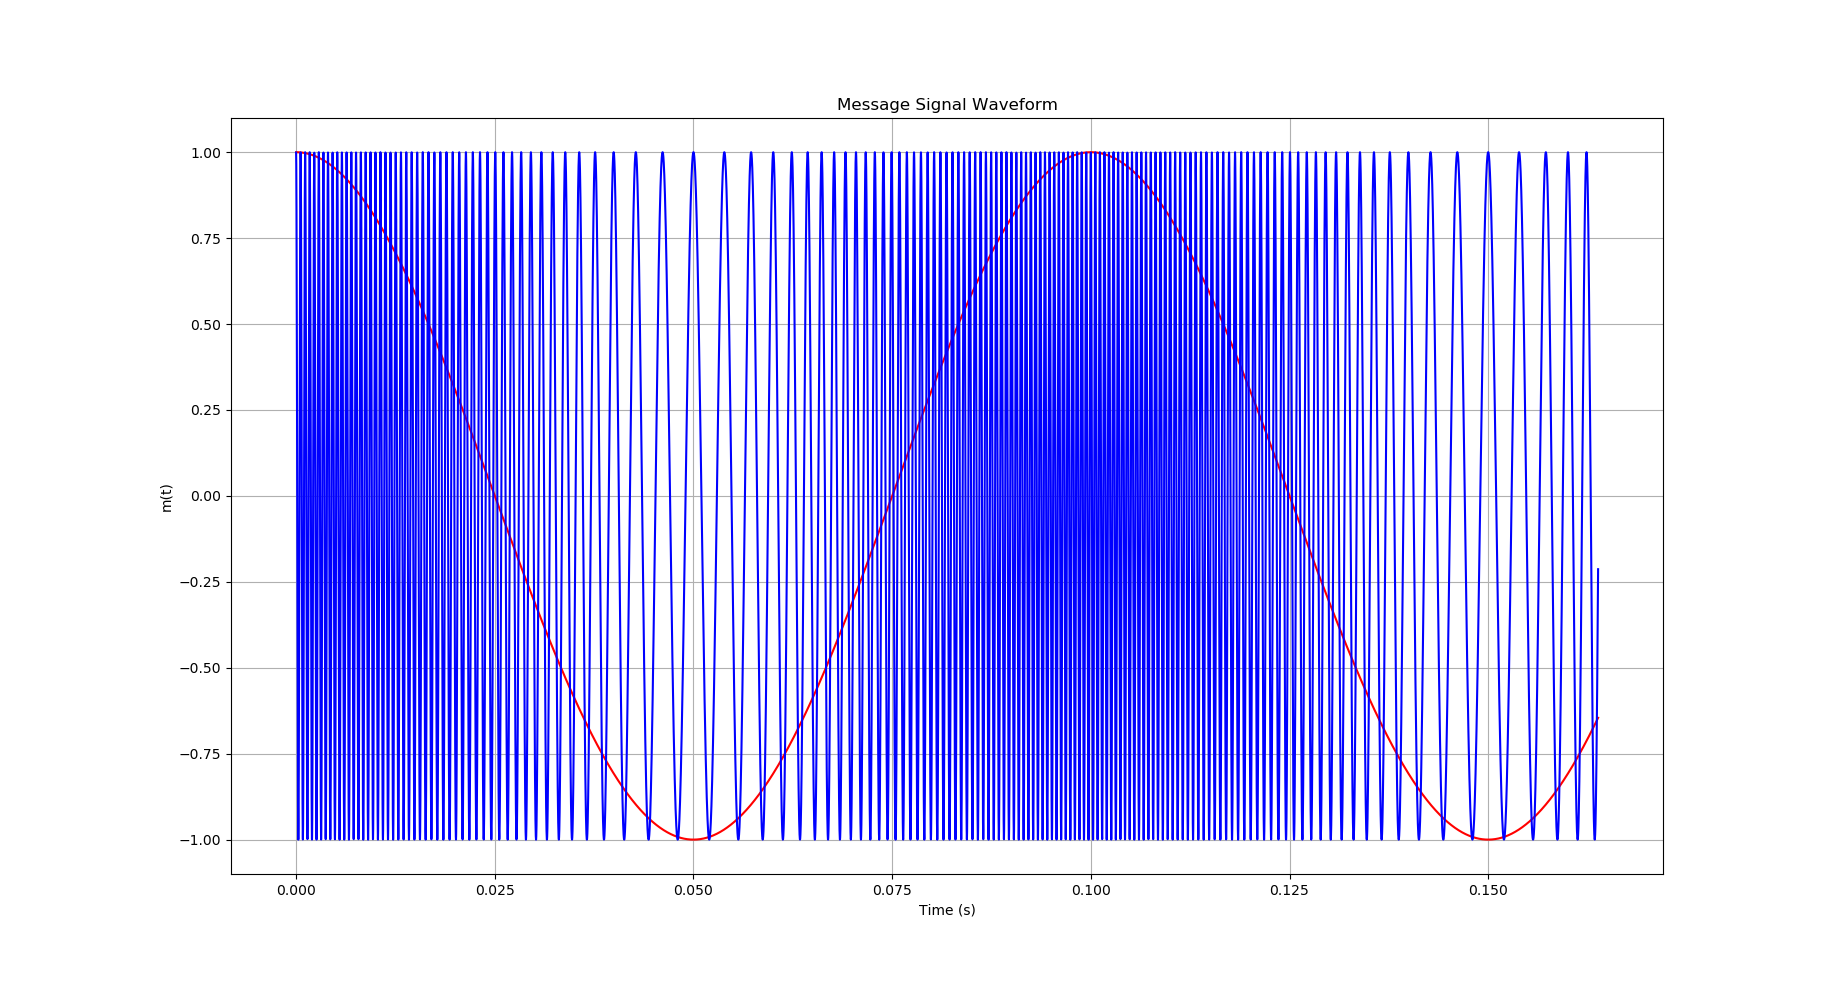
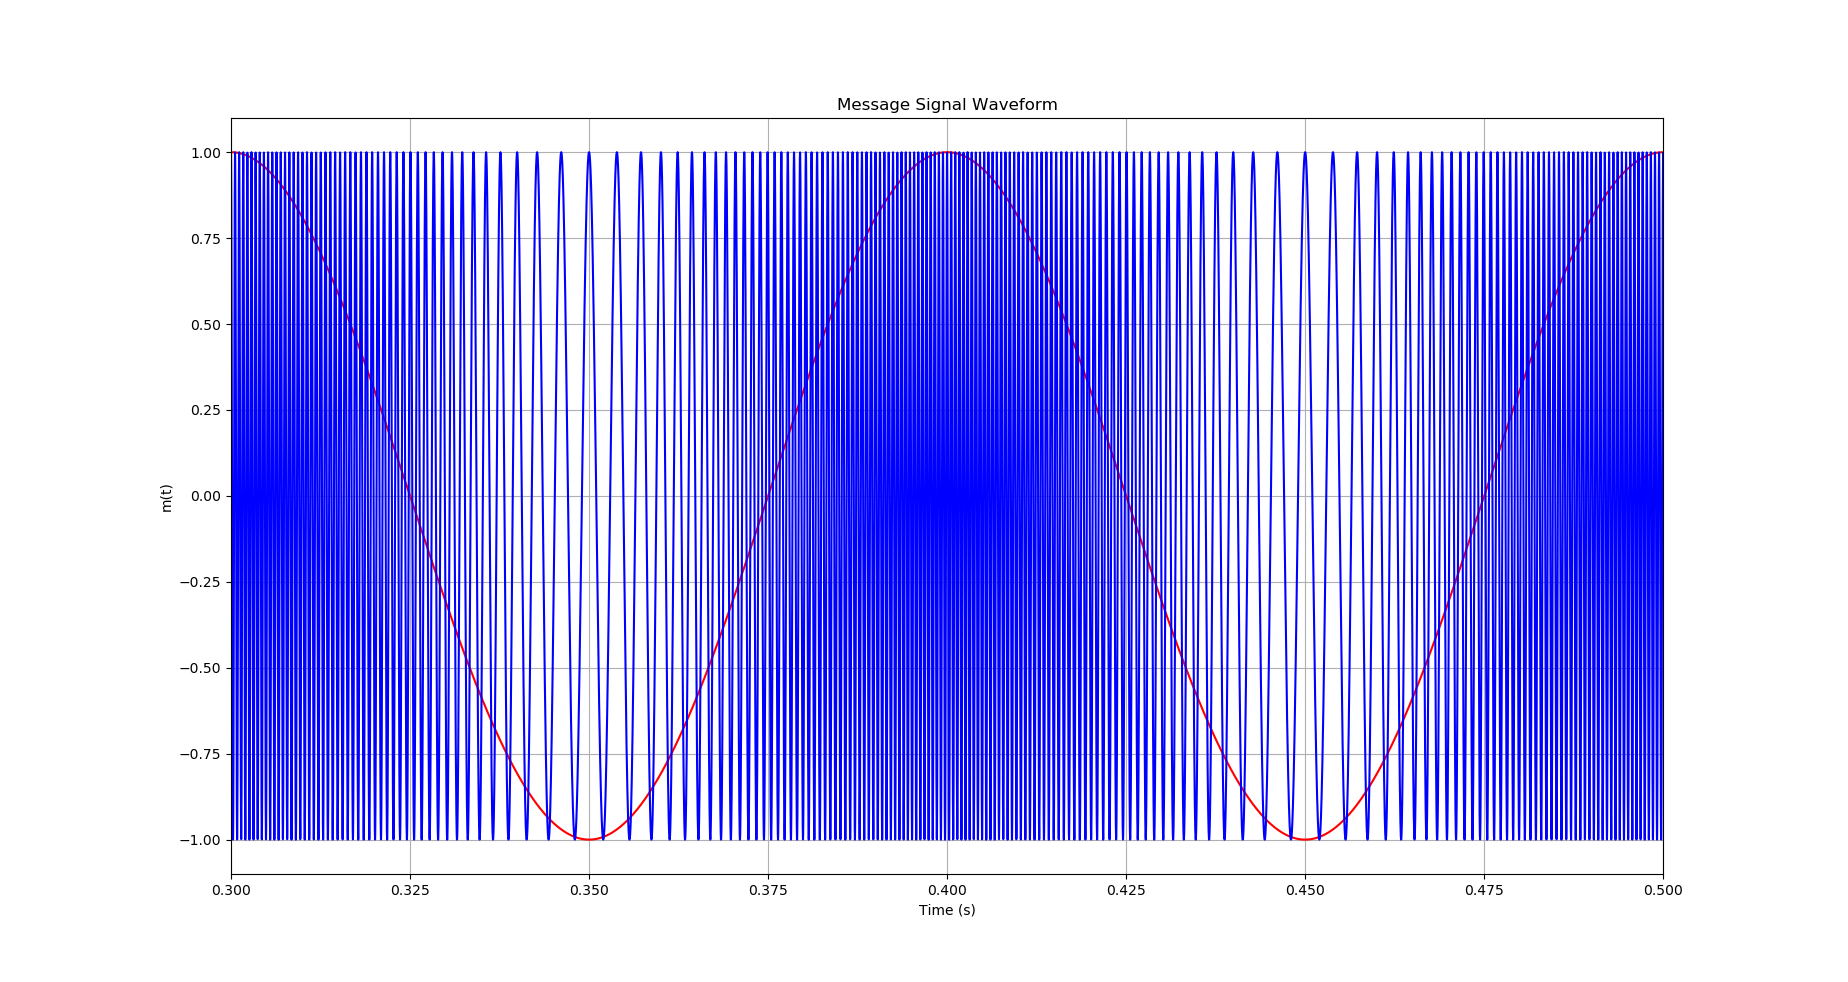
Added the main assignment file : assignment.py

diff --git a/tests/fm_mod_test.py b/tests/fm_mod_test.py
@@ -4,13 +4,14 @@ from fm.fm_mod import fm_mod
 '''
     Ac = 1
     Am = 1
-    kf = 1e3
+    kf = 750
     fm = 10
     fc = 1e3
-
+    fs = 1e5
+    n = 2**16
 '''
 # Sampling parameters
-n:int = 2**14
+n:int = 2**16
 fs:float = 1e5
 Ts:float = 1/fs
 t = np.arange(0,n*Ts,Ts)
@@ -38,6 +39,8 @@ ax.set(
     ylabel="m(t)",
     title="Message Signal Waveform"
 )
+t0 = 0.3
+ax.set_xlim(left=t0,right=t0+2/fm)
 ax.grid()
 plt.show()
 fig.savefig("docs/fm_mod_test.png")

diff --git a/assignment.py b/assignment.py
@@ -1,0 +1,18 @@
+from fm.fm_mod import fm_mod
+from fm.fm_demod import fm_demod
+import numpy as np
+import matplotlib.pyplot as plt
+import scipy.signal
+
+'''
+    Ac = 1
+    Am = 1
+    kv = 750
+    fm = 10
+    fc = 1e3
+    fs = 1e5
+    n = 2**18
+    psd : 0 dB/Hz - 30 dB/Hz
+'''
+
+# Channel noise characteristics

diff --git a/tests/fm_demod_test.py b/tests/fm_demod_test.py
@@ -5,9 +5,11 @@ from fm.fm_demod import fm_demod
 '''
     Ac = 1
     Am = 1
-    kv = 75
-    fm = 1e3
-    fc = 1e6
+    kv = 750
+    fm = 10
+    fc = 1e3
+    fs = 1e5
+    n = 2**18
 '''
 # Sampling parameters
 n:int = 2**18
